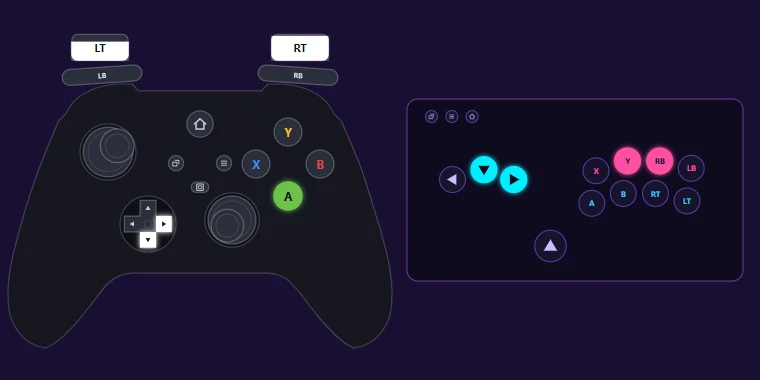
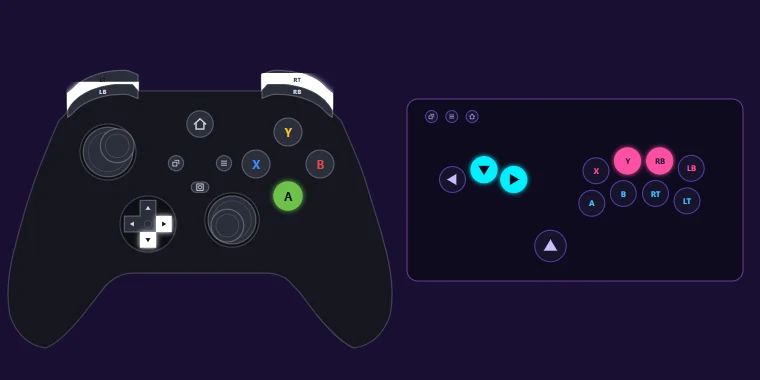
Input Display: Mega Drive preset, updated shapes in the card and guide

Changed region(s): [[0.3329, 0.0868, 0.4539, 0.3184], [0.0605, 0.0868, 0.2118, 0.2895]]

diff --git a/tools/input-display.html b/tools/input-display.html
@@ -113,7 +113,7 @@
                 </li>
                 <li>
                   <strong>Pick a layout</strong>
-                  Click a preset on the left: Xbox Series or 360, PlayStation 5 or 4, Switch Pro, GameCube, N64, SNES, NES, Genesis,
+                  Click a preset on the left: Xbox Series or 360, PlayStation 5 or 4, Switch Pro, GameCube, N64, SNES, NES, Mega Drive / Genesis,
                   Saturn, Hit Box, leverless, or a fight stick. Or start from <em>New blank</em> and build your own.
                 </li>
                 <li>
@@ -208,7 +208,7 @@
                     <td>
                       A preset: <code>xbox</code>, <code>xbox360</code>, <code>playstation</code>, <code>playstation4</code>,
                       <code>switch</code>, <code>gamecube</code>,
-                      <code>n64</code>, <code>snes</code>, <code>nes</code>, <code>genesis</code>, <code>saturn</code>,
+                      <code>n64</code>, <code>snes</code>, <code>nes</code>, <code>megadrive</code>, <code>saturn</code>,
                       <code>hitbox</code>, <code>leverless-wasd</code>, <code>stick-8</code>, <code>stick-6</code>,
                       <code>stick-4</code>, or <code>raw</code> (every input the controller has)
                     </td>
